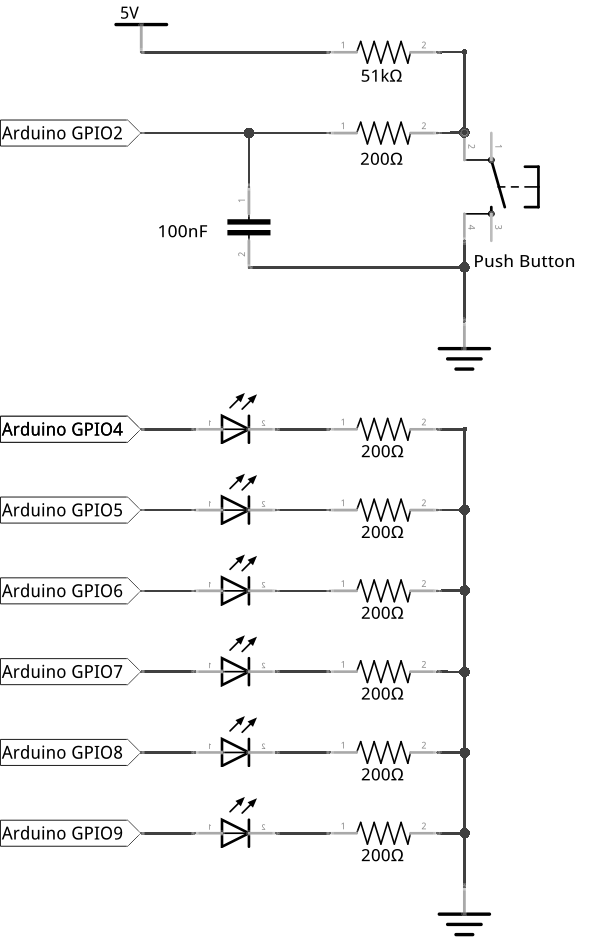
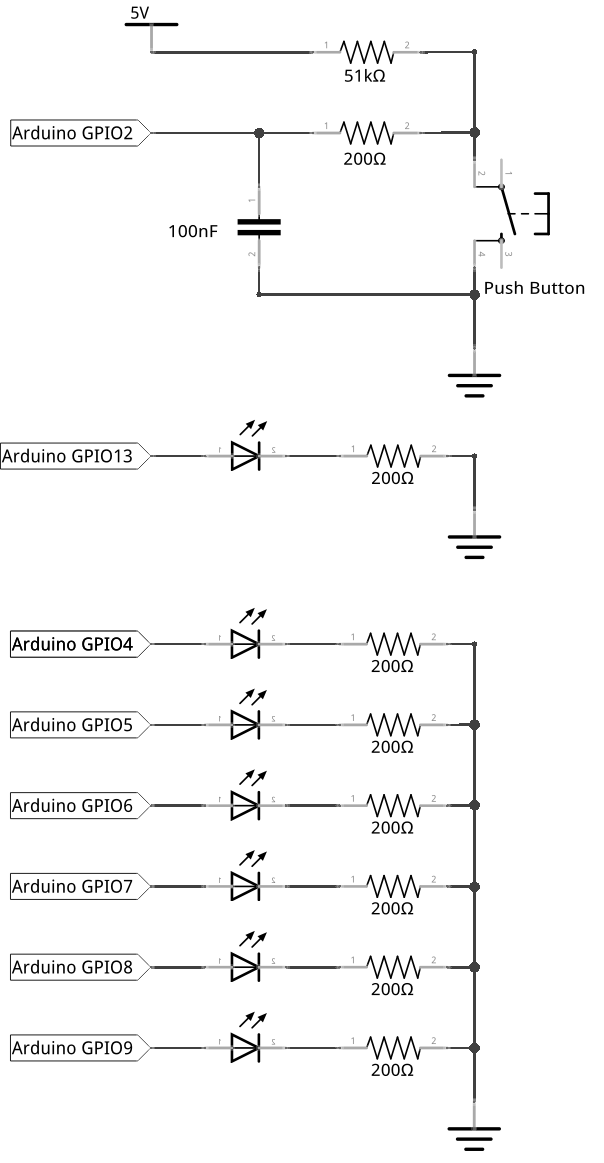
SKA04 visuals updated, code verified

diff --git a/Omega2/Kit-Guides/Arduino/experiments/04-reading-a-push-button.md b/Omega2/Kit-Guides/Arduino/experiments/04-reading-a-push-button.md
@@ -32,7 +32,9 @@ This is a powerful tool since we can use interrupts in our programs to perform a
 
 For this experiment we will start with the circuit from the [multiple LEDs tutorial](#arduino-kit-multiple-leds) and add a push-button along with it's debouncing circuit. The push-button will be connected to a ATmega pin which is capable of triggering external interrupts (only pin 2 or 3 for ATmega328). The push button will be used as input (either pressed or not pressed) and the LEDs will animate the the button presses
 
-<!-- TODO: missing circuit diagram -->
+<!-- DONE: missing circuit diagram -->
+
+![Debouncing circuit for the push button](https://raw.githubusercontent.com/OnionIoT/Onion-Docs/master/Omega2/Kit-Guides/Arduino/diagrams/04-circuit-diagram.png)
 
 
 #### What You'll Need
@@ -63,11 +65,9 @@ Prepare the following components from your kit:
     * Plug the other end of the 5.1kΩ resistor to an empty row.
     * Using the 100nF capacitor, connect the row where the 5.1kΩ resistor terminates to the `GND` rail.
 
+<!-- // DONE: photo of button and debouncer circuit with LEDs only -->
+
 ![Debouncing circuit for the push button](https://raw.githubusercontent.com/OnionIoT/Onion-Docs/master/Omega2/Kit-Guides/Arduino/img/04-debouncing-circuit.jpg)
-
-<!-- // DONE: photo of button and debouncer circuit with LEDs only LINK ABOVE IS NOT FINAL -->
-
-
 
 1. Connect the LEDs and resistors the same way as in the [multiple LED tutorial](#arduino-kit-02-multiple-leds).
     * Plug in six LEDs onto the breadboard, each across the middle channel of the breadboard.
@@ -86,7 +86,7 @@ Now let's connect the circuit to the Dock:
 
 ### Writing the Code
 
-// TODO: Lazar to re-write this code
+<!-- // DONE: Lazar to re-write this code -->
 
 The program for this experiment won't loop at all! Instead it'll setup a interrupt, and perform actions only when the interrupt is activated.
 
@@ -153,18 +153,17 @@ void setLedChain() {
 }
 ```
 
-You know the drill, `SKA04-readingPushButton.ino`.
+You know the drill, save it to `SKA04-readingPushButton.ino`, then get ready to press a button!
 
 ### What to Expect
 
-When the button is pressed, the left most LED should turn on. For each additional button press, another led will turn on, going from left to right. When all leds are on and the button is pressed, all the LEDs will turn off at once. Additional button presses will repeat the previous actions.
+When the button is pressed, the left most LED should turn on. For each additional button press, another led will turn on, going from left to right. When all leds are on and the button is pressed, the LEDs will turn off one by one in the same order. All the while, the LED connected to GPIO13 will continue blinking steadily on and off.
 
 <!-- // TODO: gif -->
 
-In addition, if we use the `cat` command on our Omega like previous tutorial, we will see a bitwise representation of our actual LEDs.
 
-<!-- // DONE: screenshot of the cat command showing the bitwise operations -->
-![Serial output from the ATmega](https://raw.githubusercontent.com/OnionIoT/Onion-Docs/master/Omega2/Kit-Guides/Arduino/img/04-serial-output.png)
+<!-- // DONE: screenshot of the cat command showing the bitwise operations - commented out no longer relevant, file is still on server -->
+<!-- ![Serial output from the ATmega](https://raw.githubusercontent.com/OnionIoT/Onion-Docs/master/Omega2/Kit-Guides/Arduino/img/04-serial-output.png) -->
 
 ### A Closer Look at the Code
 
